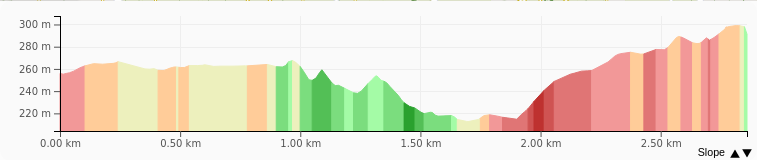
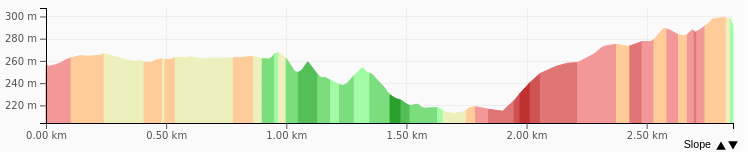
New elevation pic for cipriano track in cella monte

diff --git a/content/it/blog/cellamonte-cipriano_track.md b/content/it/blog/cellamonte-cipriano_track.md
@@ -29,6 +29,18 @@ photoSource: <a href="https://unsplash.com/photos/TYIzeCiZ_60">Unsplash</a>
   {{< /accordion-item >}}
 {{< /accordion >}}
 
+## Altimetria 
+
+<figure class="figure">
+  <img src="https://raw.githubusercontent.com/zelix888/monfit_site/8572cc90449fba42baf3543b4753f58a0dfe3b47/routes/Cella_Monte/Elevation-Cella%20Monte%20-%20Percorso%20Cipriano%20(2.9km).png" class="figure-img img-fluid w-100 rounded">
+</figure>
+
+{{< accordion >}}
+  {{< accordion-item header="Cosa indicano i colori?" >}}
+    Indica se un percorso è stato **Testato :white_check_mark:**, ovvero perlustrato in ogni suo tratto direttamente dall'autore dell'articolo oppure se invece è stato solamente **Progettato :computer:**, ovvero disegnato attraverso algoritmi di instradamento sulle mappe di OSM.
+  {{< /accordion-item >}}
+{{< /accordion >}}
+
 ## Descrizione percorso
 
 La **Partenza** è situata presso il piccolo parcheggio di *Via Gian Giacomo Francia 1*. In mancanza di posti, come alternativa, si può scendere e parcheggiare in *Via Dante Barbano 10*.
